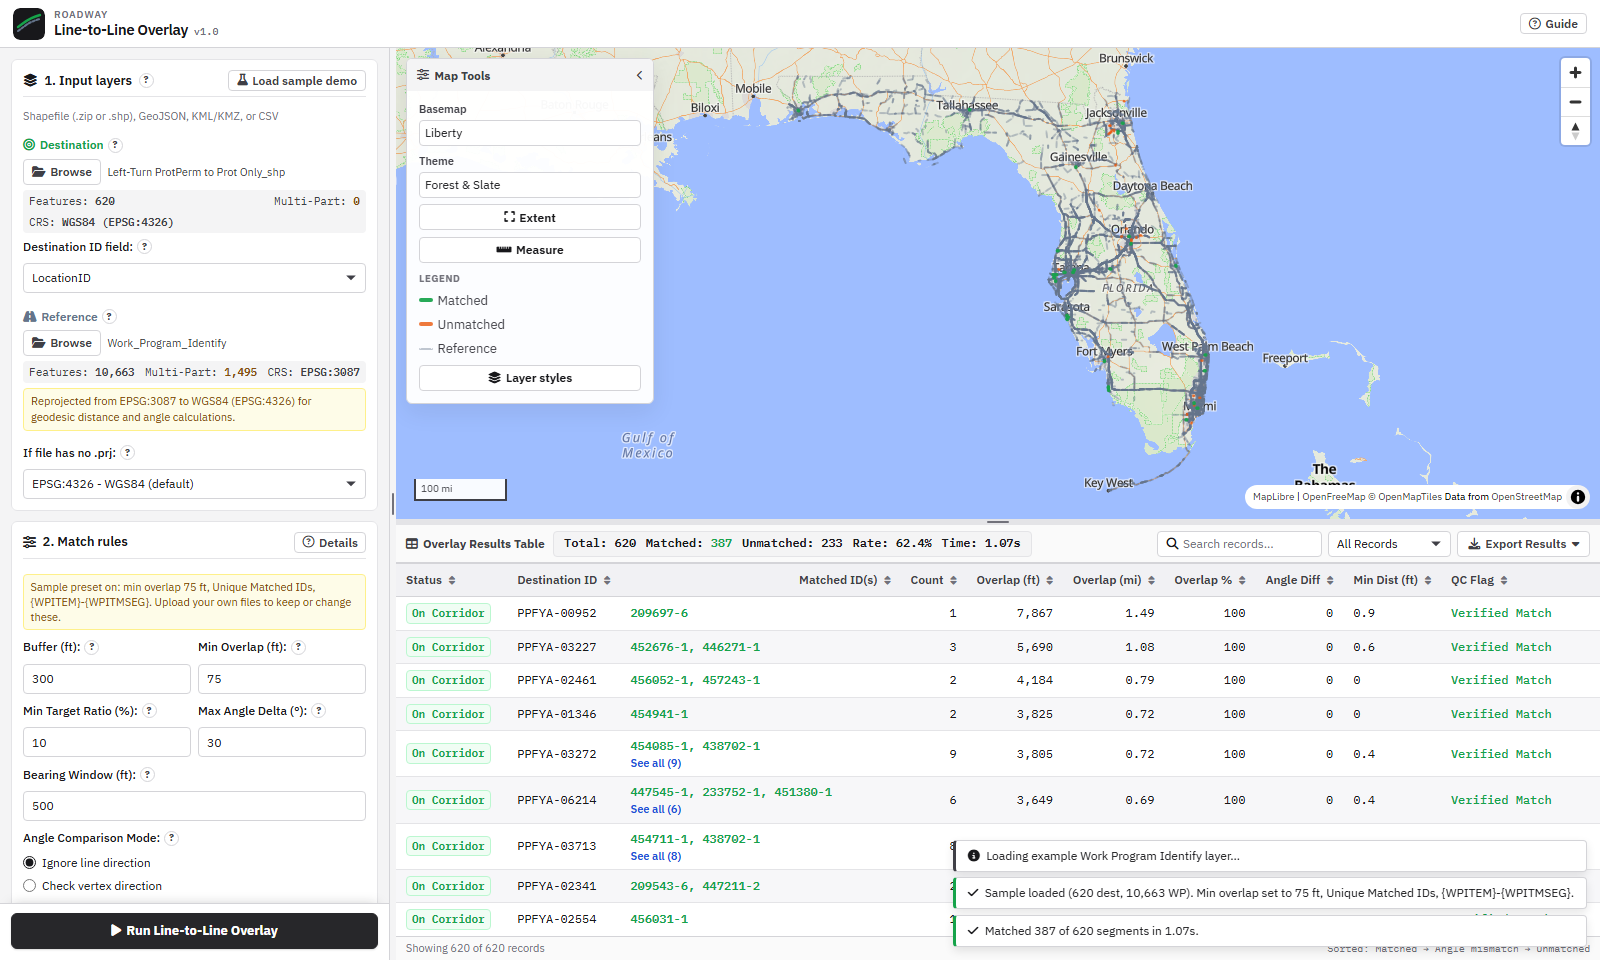
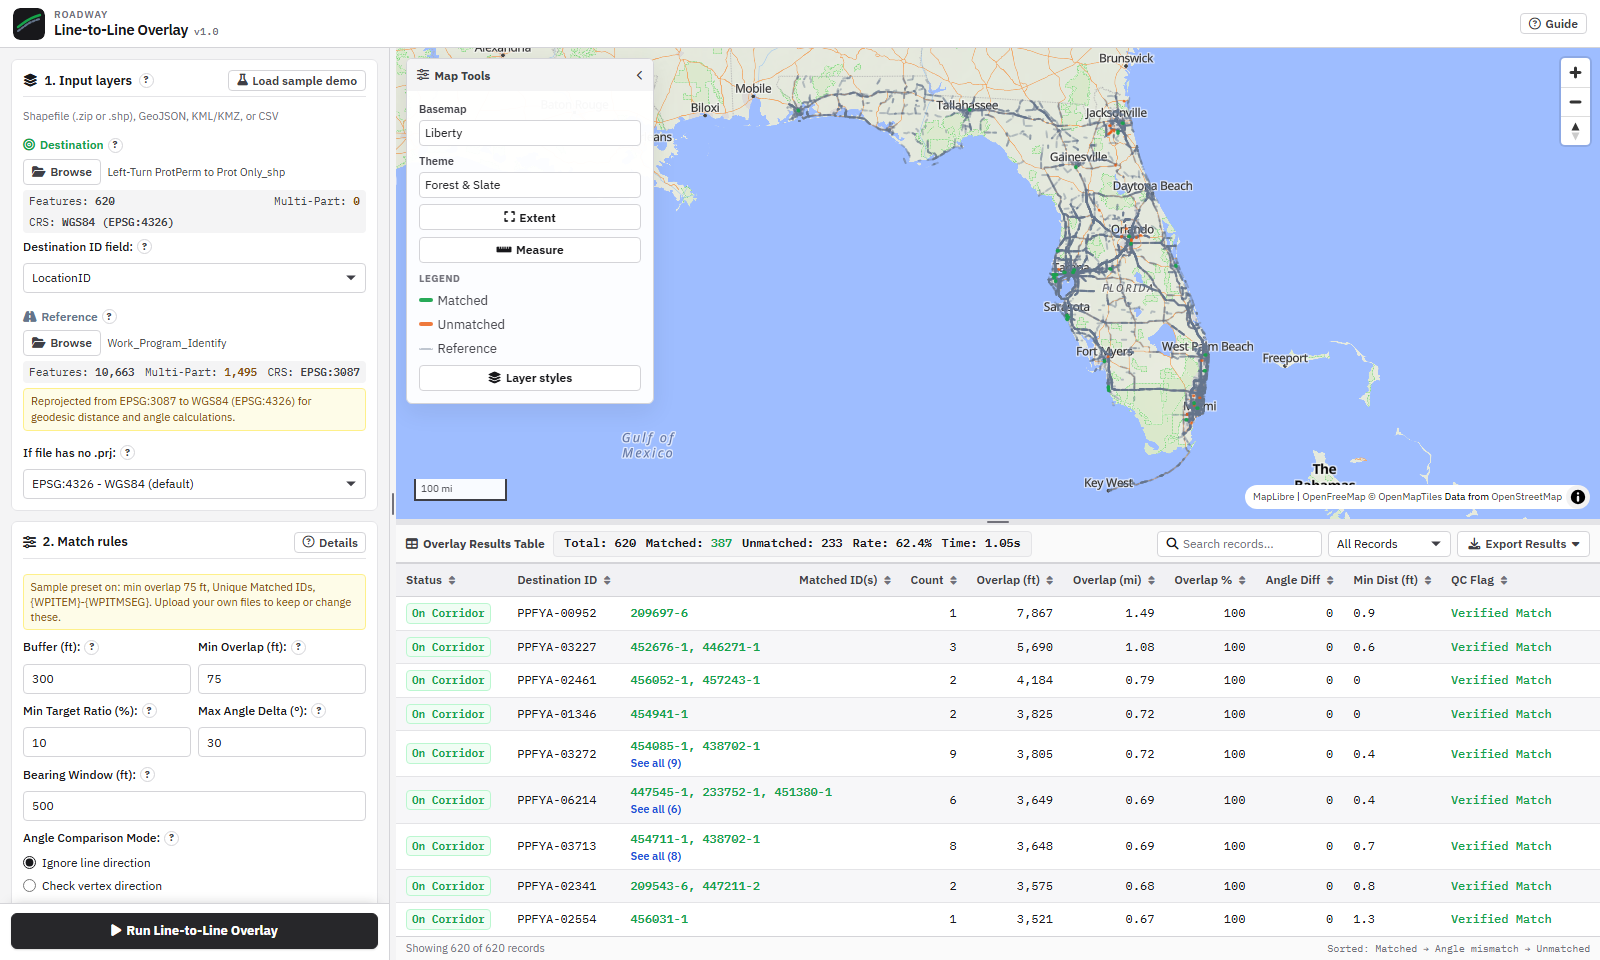
update readme

Changed region(s): [[0.5938, 0.875, 1.0, 1.0]]

diff --git a/README.md b/README.md
@@ -4,6 +4,10 @@ Browser GIS corridor overlay. Destination linework is matched to a reference lay
 
 Developed by [lzhai4892](https://github.com/lzhai4892). The app is `index.html` plus `static/js`. Calculations run in the browser.
 
+![Roadway Line-to-Line Overlay Tool in operation](static/images/overlay_operating.png)
+
+The screenshot shows a sample run: destination and reference loaded, overlay computed, matches drawn on the map (green / orange) and listed in the results table.
+
 ---
 
 ## How to run
